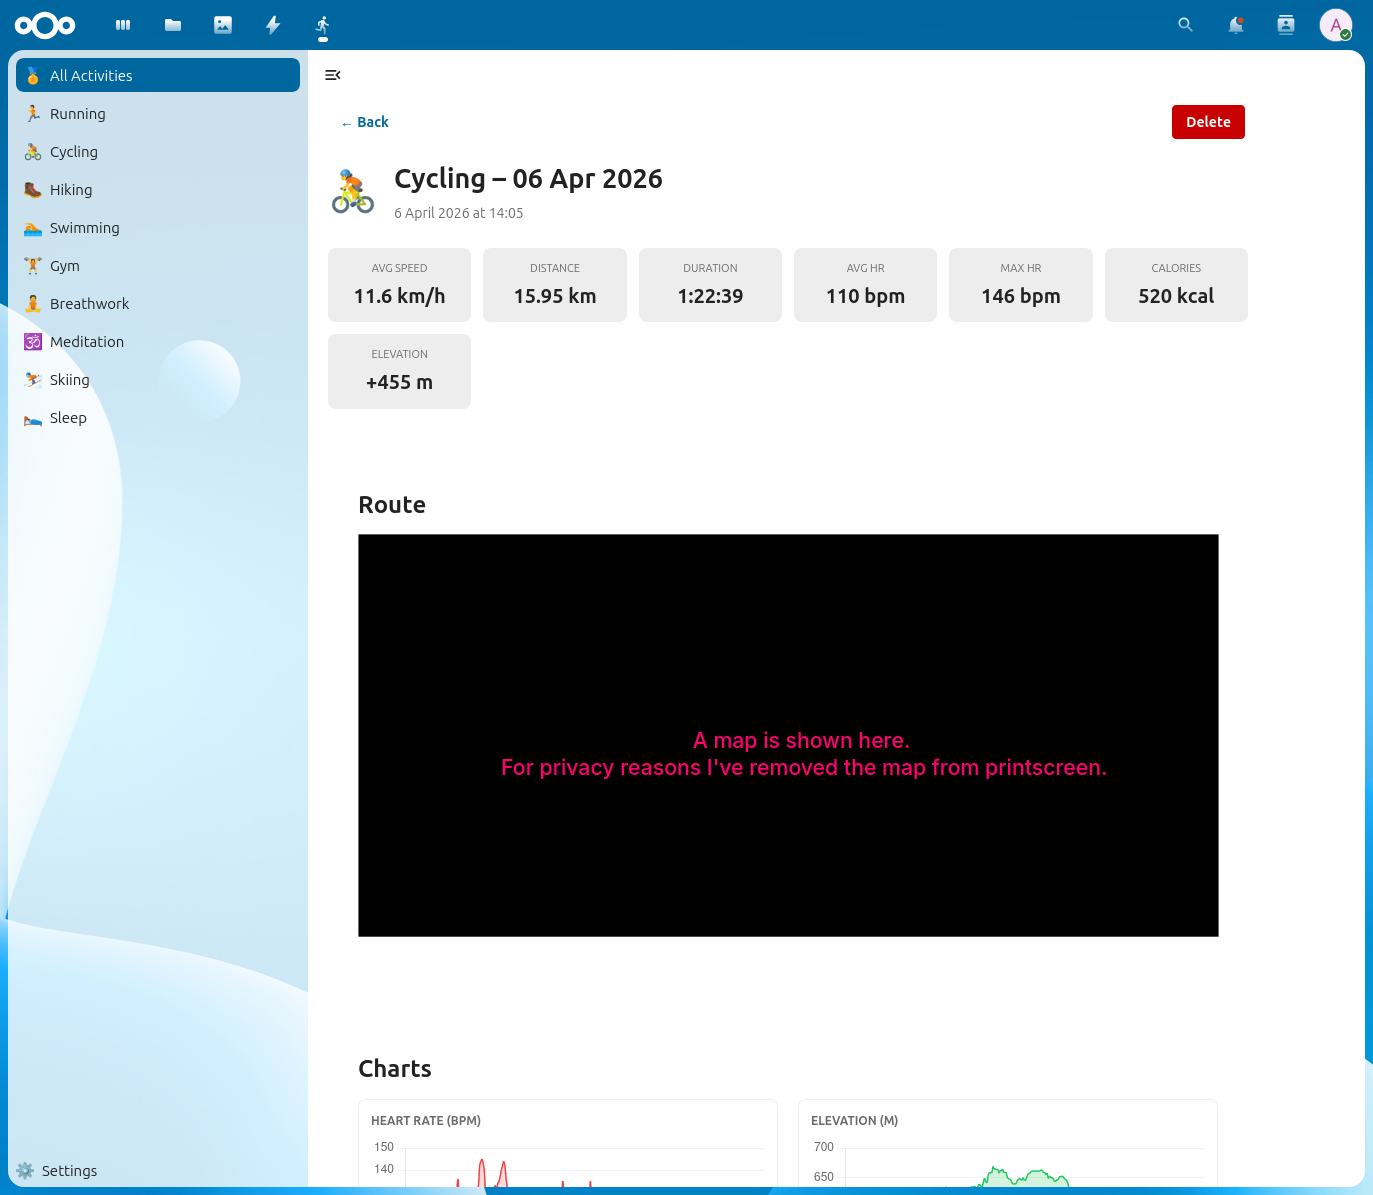
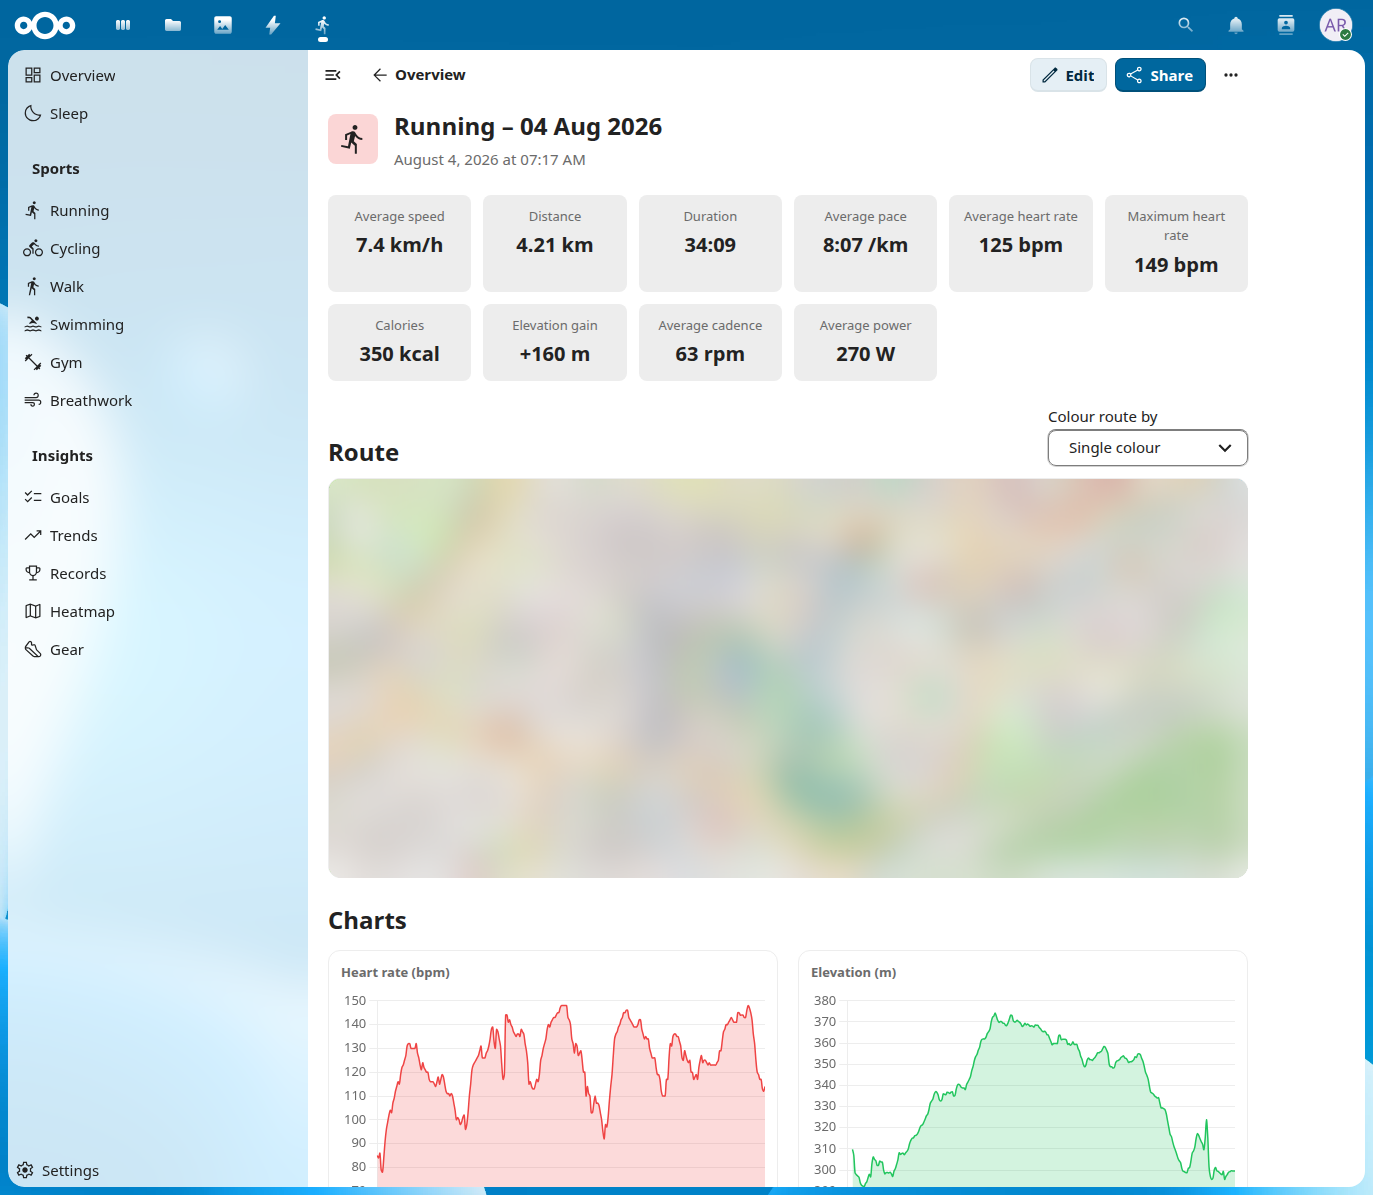
docs: update README and screenshots for 1.3.0
Describe the Overview, activities, sleep and insights as they are now,
replace the screenshots (Overview, activity with a blurred map, Sleep,
sleep detail) and update the app store screenshot list. Goals and Trends
now say "Overview" instead of "dashboard".

diff --git a/src/components/GoalsPage.vue b/src/components/GoalsPage.vue
@@ -20,7 +20,7 @@
         <NcEmptyContent
             v-else-if="goals.list.length === 0"
             :name="t('fit_tracker', 'No goals yet')"
-            :description="t('fit_tracker', 'Set a weekly, monthly or yearly target, for example 100 km of cycling a month or 7 hours of sleep a night. The dashboard then shows your progress for the selected timeframe.')"
+            :description="t('fit_tracker', 'Set a weekly, monthly or yearly target, for example 100 km of cycling a month or 7 hours of sleep a night. The Overview then shows your progress for the selected timeframe.')"
         >
             <template #icon>
                 <NcIconSvgWrapper :svg="icons.checklist" />
@@ -34,7 +34,7 @@
 
         <template v-else>
             <p class="ft-panel__hint goals-page__intro">
-                {{ t('fit_tracker', 'The dashboard shows each goal scaled to the selected timeframe: a weekly goal of 50 km is about 214 km over the last 30 days. Below, every goal is checked per calendar week, month or year.') }}
+                {{ t('fit_tracker', 'The Overview shows each goal scaled to the selected timeframe: a weekly goal of 50 km is about 214 km over the last 30 days. Below, every goal is checked per calendar week, month or year.') }}
             </p>
             <NcNoteCard v-if="needsTraining && training.analyzing" type="info">
                 {{ n('fit_tracker', 'Analyzing heart rate data of %n older activity…', 'Analyzing heart rate data of %n older activities…', training.analyzing) }}

diff --git a/src/components/StatsPage.vue b/src/components/StatsPage.vue
@@ -40,8 +40,8 @@
             </div>
 
             <p class="ft-panel__hint stats-page__intro">
-                {{ t('fit_tracker', 'Long-term views. Totals for any timeframe are on the dashboard.') }}
-                <router-link to="/">{{ t('fit_tracker', 'Open dashboard') }}</router-link>
+                {{ t('fit_tracker', 'Long-term views. Totals for any timeframe are on the Overview.') }}
+                <router-link to="/">{{ t('fit_tracker', 'Open Overview') }}</router-link>
             </p>
 
             <section class="ft-panel">

diff --git a/README.md b/README.md
@@ -13,46 +13,47 @@ A self-hosted Nextcloud app for tracking your fitness activities and sleep — p
 
 FIT Tracker scans a folder in your Nextcloud for `.fit` files exported from a Garmin device (or any device that produces standard FIT files) and automatically imports them into a database. It then presents your data in a clean dashboard with charts, maps, and detailed views.
 
-### Activity tracking
+### Overview
 
-- **Supported sports:** the full Garmin FIT sport list — Running, Cycling, Hiking, Walking, Swimming, Gym, Breathwork, Meditation, Skiing, and dozens more (sailing, golf, rowing, kayaking, tennis, climbing, ...). Sports without a dedicated icon still import fine with a generic icon and a title-cased label
-- **Dashboard** for the last 7, 30 or 365 days, all time or a custom range: totals compared with the previous timeframe, progress on goals, a chart over the timeframe, training, highlights, gear, sleep and the activities in the timeframe. Each sport has the same dashboard
-- **Sidebar navigation** only lists the sport types (and Sleep) you actually have imported activities for
-- **Activity cards** display distance, duration, average heart rate, and calories
-- **Share button** on the activity detail page generates a shareable image card (route map + key stats) for the activity
-- **Detail view** per activity includes:
-  - Key stats (distance, pace or speed depending on sport, heart rate, elevation, calories, cadence)
-  - Interactive Leaflet map with GPS route and photo pins
-  - Photos taken along the route, shown as a thumbnail strip and as clickable map pins for any activity with a GPS track — only GPS-tagged JPEG photos stored in Nextcloud are matched, within 200 m of the track. Clicking one opens a viewer with previous/next navigation
-  - Charts for heart rate, elevation, power, and pace or speed (pace is shown Garmin-style: faster is up, m:ss values, stops dip to the bottom), plus average speed per km for running and cycling
-  - Lap table with per-lap pace/speed, heart rate and distance
-- **"⋯" menu** on activity and sleep detail pages:
-  - **Re-import from file** reads the `.fit` file again with the current parser
-  - **Delete** removes the entry and moves its `.fit` file to the Nextcloud trash; restoring the file imports it again on the next sync
+The first page is an **Overview** of a timeframe you choose: the last 7, 30 or 365 days, all time, or a custom range. Each sport in the navigation opens the same view for that sport, and the timeframe is kept when switching.
 
-### Sleep tracking
+- **Totals:** distance, time, elevation gain, activities, active days with streaks, calories and training load, each compared with the previous timeframe of the same length
+- **Goal progress** on each total, scaled to the timeframe (a weekly goal of 50 km is about 214 km over 30 days)
+- **Chart** over the timeframe per day, week, month or year, split by sport, with the previous timeframe as a line
+- **By sport, training** (fitness, fatigue, form and heart rate zones), **highlights** and **gear** due for replacement
+- **Sleep** for the same timeframe (see below)
+- **Activities** in the timeframe, with search and a distance filter
 
-- Automatically detects and separates Garmin sleep `.fit` files from activity files
-- Detected daytime naps are also imported as short sleep sessions
-- **Sleep list** shows all recorded sleep sessions with a **monthly stacked bar chart** (Deep / REM / Light / Awake), with previous/next navigation between months
-- **Dashboard widget** on the main activity page shows your last sleep session with duration, score, HRV and a stage distribution bar
-- **Detail view** per sleep session includes:
-  - Key stats: total duration, sleep score (0–100), HRV score, time in each stage
-  - Stage distribution bar
-  - Full sleep timeline — a coloured horizontal band showing every stage transition across the night with hour marks
-  - Stage table with timestamps and per-stage duration
+### Activities
+
+- **Supported sports:** the full Garmin FIT sport list — Running, Cycling, Hiking, Walking, Swimming, Gym, Breathwork, Meditation, Skiing, and dozens more (sailing, golf, rowing, kayaking, tennis, climbing, ...). Sports without a dedicated icon still import with a generic icon
+- **Sidebar navigation** only lists the sport types (and Sleep) you actually have data for
+- **Detail view** per activity:
+  - Key stats: distance, pace or speed depending on the sport, heart rate, elevation, calories, cadence, power
+  - Map with the GPS route, coloured by speed, heart rate or elevation if you like, and linked to the charts on hover
+  - Photos taken along the route: GPS-tagged JPEGs in your Nextcloud within 200 m of the track, as thumbnails and map pins, with a photo viewer
+  - Charts for heart rate, elevation, pace or speed, and power
+  - Heart rate zones and training load, splits per km or mile, laps, and power analysis (normalized power, intensity factor, TSS, power curve)
+  - Weather at the start, if turned on in the settings
+- **Edit** an activity's name, notes, perceived effort (1–10) and gear; these are kept when the file is imported again
+- **Share** an activity as an image card, or as a public link with the route, stats and charts (the first and last 200 m of the route can be hidden)
+- **"⋯" menu** on activity and sleep pages: **Re-import from file** reads the `.fit` file again; **Delete** removes the entry and moves its `.fit` file to the Nextcloud trash
+
+### Sleep
+
+- Garmin sleep and nap files are detected and kept apart from activities automatically
+- **Sleep page** with the same timeframes as the Overview: sleep per night with score and stages, best and worst night, sleep debt, usual bedtime and wake-up, sleep after rest days and after easier or harder training days, a chart of sleep stages per night, bedtime regularity, weekdays against weekends, and the sleep sessions in the timeframe
+- **Detail view** per night: duration, sleep score, HRV, time in each stage, and a timeline of every stage change through the night
 
 ### Insights
 
-- **Trends:** totals per week, month or year by sport, a year-over-year comparison, fitness / fatigue / form from heart rate training load (TRIMP), and time in heart rate zones per week
+- **Goals:** weekly, monthly or yearly targets for distance, time, elevation, activities, active days, calories, training load, sleep per night, sleep score and nights with enough sleep, for all sports or one. The goals page shows which of the last weeks, months or years each goal was reached, and your streak
+- **Trends:** year over year, fitness and fatigue over time, and time in heart rate zones per week
 - **Records:** fastest times from 400 m to the marathon and over 5–100 km on the bike, best power from 5 seconds to an hour, and the longest distance, time and climb per sport
 - **Heatmap:** every GPS route on one map, with the photos taken along them
 - **Gear:** shoes, bikes and other gear with the distance put on them and a reminder when it is time to replace them. Gear can be the default for a sport from a start date, or be picked per activity
-- **Goals:** weekly, monthly or yearly targets for distance, time, elevation, activities, active days, calories, training load and sleep. The dashboard scales them to the selected timeframe; the goals page shows which weeks, months or years they were reached
-- **Activity details:** heart rate zones, splits per km or mile, power analysis (normalized power, intensity factor, TSS, power curve), route coloured by speed, heart rate or elevation, and charts linked to the map. Activities can be renamed and get notes, perceived effort and gear
-- **Sharing:** besides the image card, a public link with the route, stats and charts; the first and last 200 m of the route can be hidden
-- **Sleep trends:** averages, regularity of bed and wake times, weekday vs weekend, and how you sleep after rest days and harder training days
-- **Nextcloud Dashboard widget** with this week's totals, the last sleep and recent activities
+
+Also included: a **Nextcloud Dashboard widget** with this week's totals, the last sleep and recent activities, and optionally a **calendar event** for every activity.
 
 ### Settings
 
@@ -72,20 +73,13 @@ Open **Settings** at the bottom of the navigation:
 
 ## Screenshots
 
-<!-- Add your own screenshots here. Suggested captures:
-     - Main dashboard (activity calendar + week chart + last sleep widget)
-     - Activity detail with map and charts
-     - Sleep list with monthly chart
-     - Sleep detail with timeline
--->
+| Overview | Activity detail |
+|----------|-----------------|
+| ![Overview](docs/overview.png) | ![Activity detail](docs/activity_detail.png) |
 
-| Dashboard | Activity detail |
-|-----------|----------------|
-| ![Dashboard](docs/activity_list.png) | ![Activity detail](docs/activity_detail.png) |
-
-| Sleep list | Sleep detail |
-|------------|-------------|
-| ![Sleep list](docs/sleep_list.png) | ![Sleep detail](docs/sleep_detail.png) |
+| Sleep | Sleep detail |
+|-------|--------------|
+| ![Sleep](docs/sleep.png) | ![Sleep detail](docs/sleep_detail.png) |
 
 ---
 
